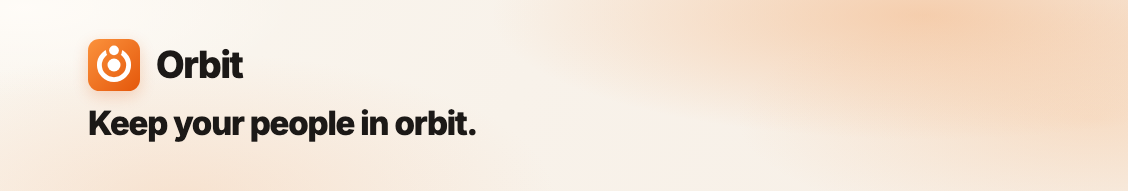
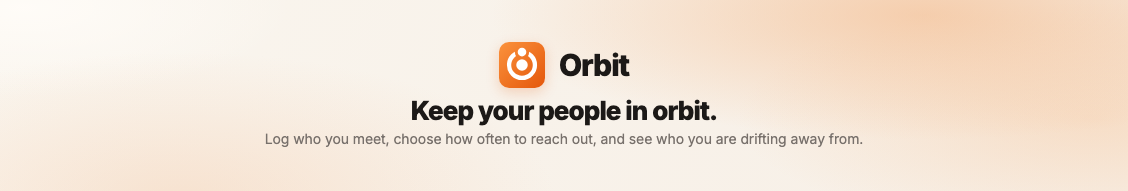
assets: company cover is centred, because LinkedIn crops it twice
The 1584x396 file was being cropped on the company page — lockup off the top,
description off the bottom — because a company cover is a much wider strip than
a personal profile background.

Measured off the real page rather than assumed: LinkedIn renders the same file
at ~8.75:1 in the Edit page form, which crops the top and bottom away, and at
~3.59:1 in the sidebar card, which crops the left and right away. Intersecting
those leaves a safe box of 686x129 in the middle of a 1128x191 image.

So the cover is centred and compact. That is not a style preference — anything
outside that box is cropped off somewhere, and left-aligned content is exactly
what the sidebar crop eats. The 221px left inset also clears the logo LinkedIn
hangs over the bottom left.

Verified by rendering the file through both crops: all three views keep the
lockup, the headline and the full description.

The 1584x396 personal profile background is unchanged and stays left-aligned
like the OG image — that placement crops differently and has room for it.

Changed region(s): [[0.0621, 0.5236, 0.7757, 0.7592], [0.0621, 0.1832, 0.2172, 0.5236], [0.4344, 0.2094, 0.5585, 0.4974]]

diff --git a/assets/linkedin-banner.source.html b/assets/linkedin-banner.source.html
@@ -2,8 +2,16 @@
 <!--
   Orbit — LinkedIn banner source.
 
-  Open with ?w=1584&h=396 (personal profile) or ?w=1128&h=191 (company cover)
-  and export at exactly that window size.
+  Open with ?w=1584&h=396 (personal profile background) or ?w=1128&h=191
+  (company page cover) and export at exactly that window size.
+
+  The company cover is CENTRED rather than left-aligned, and that is not a
+  style choice. LinkedIn shows the same file at different aspect ratios in
+  different places — measured off a real page: ~8.75:1 in the Edit page form
+  (crops the top and bottom away) and ~3.59:1 in the sidebar card (crops the
+  left and right away). Intersecting the two leaves a safe box of 686x129 in
+  the middle of a 1128x191 image. Anything outside it is cropped off somewhere.
+  The 221px left inset also clears the logo LinkedIn hangs over the bottom left.
 
   The look is lifted from assets/og-image.png rather than invented: the same
   cream base, the same peach aura, the same left-aligned lockup → headline →
@@ -30,6 +38,10 @@
       linear-gradient(115deg,#FAF6EF 0%,#F8F2EA 46%,#F7EFE6 100%);
   }
   .inner{position:relative; top:calc(-1 * var(--rise)); padding-left:var(--pad); max-width:calc(var(--w) - var(--pad) - var(--pad)*.5)}
+  /* Company cover: everything inside the safe box, so no crop can eat it. */
+  .banner.cover{justify-content:center}
+  .cover .inner{padding-left:0; max-width:686px; text-align:center}
+  .cover .lockup{justify-content:center}
 
   .lockup{display:flex; align-items:center; gap:var(--lg)}
   .tile{
@@ -69,15 +81,17 @@
   var W = +p.get("w") || 1584, H = +p.get("h") || 396;
   var s = document.documentElement.style;
 
-  /* Two layouts, not one scaled one. Below ~300px tall the description cannot
-     be set large enough to read on a phone, and shrinking it to fit is how a
-     banner ends up with a line nobody can make out. It is dropped instead, and
-     the lockup and headline grow to use the room. */
+  /* Two layouts, not one scaled one. The wide banner is left-aligned like the
+     OG image; the company cover has to be centred and compact, because the
+     safe box left by LinkedIn's two crops is only 686x129 of a 1128x191 file
+     (see the note at the top). Scaling one layout to both would push the
+     content straight into the part that gets cropped. */
   var dense = H < 300;
   var k = dense ? H / 191 : H / 396;
+  if (dense) document.querySelector(".banner").classList.add("cover");
 
   var v = dense
-    ? { pad: 88, tile: 52, lg: 16, fsw: 37, fsh: 33, fsd: 0,  m1: 15, m2: 0,  rise: 6 }
+    ? { pad: 0, tile: 46, lg: 14, fsw: 30, fsh: 26, fsd: 14, m1: 9, m2: 5, rise: 0 }
     /* rise: LinkedIn hangs your profile photo over the bottom left of the
        banner — about the bottom third, and the left 2–16% of the width. Dead
        centre put the description line straight behind it. Lifting the block
@@ -88,7 +102,7 @@
   Object.keys(v).forEach(function (key) {
     s.setProperty("--" + key, Math.round(v[key] * k) + "px");
   });
-  document.getElementById("desc").hidden = dense;
+  document.getElementById("desc").hidden = false;
   document.body.style.width = W + "px";
   document.body.style.height = H + "px";
 </script>
